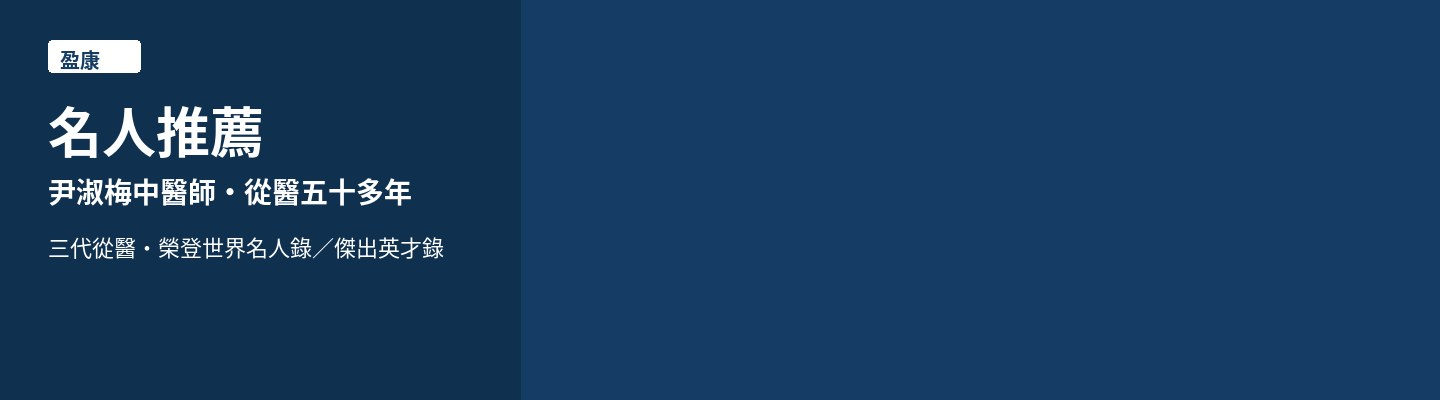
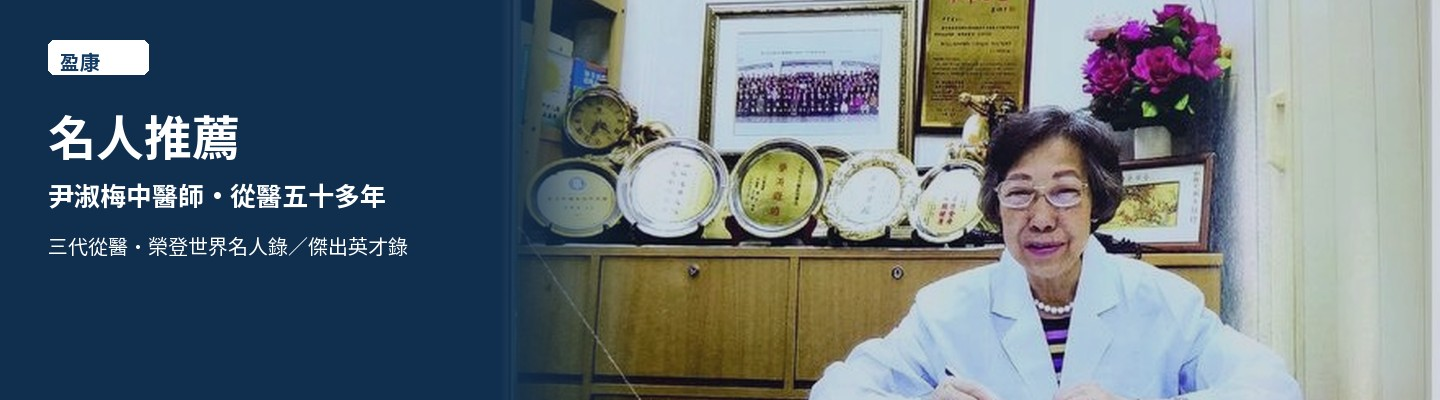
Add real product photos to homepage carousel posters and click-through links
Regenerate all 6 posters (1440x400) with pack shots / Yin Shumei portrait on
the right, wrap each carousel slide in an <a> to the matching product or brand
page, and keep the regen script under scripts/ for future rebuilds.

diff --git a/index.html b/index.html
@@ -54,7 +54,7 @@
 </div>
 
 <div class="carousel" aria-label="宣傳海報輪播">
-  <div class="carousel-track" id="carousel-track"><div class="carousel-slide"><img src="assets/posters/01-hero.jpg" alt="盈康宣傳海報 1"></div><div class="carousel-slide"><img src="assets/posters/02-celebrity.jpg" alt="盈康宣傳海報 2"></div><div class="carousel-slide"><img src="assets/posters/03-yanbiqing.jpg" alt="盈康宣傳海報 3"></div><div class="carousel-slide"><img src="assets/posters/04-patch.jpg" alt="盈康宣傳海報 4"></div><div class="carousel-slide"><img src="assets/posters/05-trust.jpg" alt="盈康宣傳海報 5"></div><div class="carousel-slide"><img src="assets/posters/06-liuwei.jpg" alt="盈康宣傳海報 6"></div></div>
+  <div class="carousel-track" id="carousel-track"><div class="carousel-slide"><a href="products/index.html"><img src="assets/posters/01-hero.jpg" alt="盈康 — 瀏覽所有產品"></a></div><div class="carousel-slide"><a href="yinshumei/index.html"><img src="assets/posters/02-celebrity.jpg" alt="名人推薦 尹淑梅 — 尹淑梅專區"></a></div><div class="carousel-slide"><a href="products/yanbiqing-60caps-y5.html"><img src="assets/posters/03-yanbiqing.jpg" alt="強力炎必清 — 產品詳情"></a></div><div class="carousel-slide"><a href="products/zuogu-gaobu-10pcs-x11-yk400.html"><img src="assets/posters/04-patch.jpg" alt="一條根膏布 — 產品詳情"></a></div><div class="carousel-slide"><a href="about.html"><img src="assets/posters/05-trust.jpg" alt="可信賴本地品牌 — 關於我們"></a></div><div class="carousel-slide"><a href="products/liuwei-dihuang-350caps-yk396.html"><img src="assets/posters/06-liuwei.jpg" alt="六味地黃丸 — 產品詳情"></a></div></div>
   <button type="button" class="carousel-btn prev" id="carousel-prev" aria-label="上一張">‹</button>
   <button type="button" class="carousel-btn next" id="carousel-next" aria-label="下一張">›</button>
   <div class="carousel-dots" id="carousel-dots"></div>

diff --git a/assets/site.css b/assets/site.css
@@ -133,6 +133,7 @@ img { max-width: 100%; height: auto; display: block; }
 }
 .carousel-track { display: flex; transition: transform .45s ease; }
 .carousel-slide { min-width: 100%; position: relative; }
+.carousel-slide > a { display: block; color: inherit; text-decoration: none; }
 .carousel-slide img {
   width: 100%; height: auto; aspect-ratio: 1440/400; object-fit: cover;
 }

diff --git a/scripts/regen_carousel_posters.py b/scripts/regen_carousel_posters.py
@@ -1,0 +1,230 @@
+#!/usr/bin/env python3
+# -*- coding: utf-8 -*-
+"""Regenerate homepage carousel posters with real product/brand photos on the right."""
+from __future__ import annotations
+
+from pathlib import Path
+from PIL import Image, ImageDraw, ImageFont, ImageFilter, ImageEnhance, ImageChops
+
+REPO = Path(__file__).resolve().parents[1]
+OUT = REPO / "assets" / "posters"
+PHONE = "6222 7238"
+W, H = 1440, 400
+LEFT_W = 560
+
+FONT_R = Path("/home/box/.local/share/fonts/LZNotoSansTC-Regular.ttf")
+FONT_B = Path("/home/box/.local/share/fonts/LZNotoSansTC-Bold.ttf")
+FONT_CJK_R = "/usr/share/fonts/opentype/noto/NotoSansCJK-Regular.ttc"
+FONT_CJK_B = "/usr/share/fonts/opentype/noto/NotoSansCJK-Bold.ttc"
+
+
+def font(sz: int, bold: bool = False):
+    preferred = FONT_B if bold else FONT_R
+    if preferred.exists():
+        try:
+            return ImageFont.truetype(str(preferred), sz)
+        except Exception:
+            pass
+    for idx in (4, 3, 1, 0):
+        try:
+            return ImageFont.truetype(FONT_CJK_B if bold else FONT_CJK_R, sz, index=idx)
+        except Exception:
+            continue
+    return ImageFont.load_default()
+
+
+def cover_fit(im: Image.Image, tw: int, th: int) -> Image.Image:
+    im = im.convert("RGBA")
+    sw, sh = im.size
+    scale = max(tw / sw, th / sh)
+    nw, nh = int(sw * scale + 0.5), int(sh * scale + 0.5)
+    im = im.resize((nw, nh), Image.Resampling.LANCZOS)
+    left = (nw - tw) // 2
+    top = (nh - th) // 2
+    return im.crop((left, top, left + tw, top + th))
+
+
+def contain_fit(im: Image.Image, tw: int, th: int, pad_rgba=(0, 0, 0, 0)) -> Image.Image:
+    im = im.convert("RGBA")
+    sw, sh = im.size
+    scale = min(tw / sw, th / sh)
+    nw, nh = max(1, int(sw * scale)), max(1, int(sh * scale))
+    im = im.resize((nw, nh), Image.Resampling.LANCZOS)
+    canvas = Image.new("RGBA", (tw, th), pad_rgba)
+    canvas.paste(im, ((tw - nw) // 2, (th - nh) // 2), im)
+    return canvas
+
+
+def soft_left_fade(panel: Image.Image, fade_px: int = 120) -> Image.Image:
+    panel = panel.convert("RGBA")
+    w, h = panel.size
+    fade_px = min(fade_px, w)
+    alpha = panel.split()[-1]
+    grad = Image.new("L", (w, 1), 255)
+    gpx = grad.load()
+    for x in range(fade_px):
+        gpx[x, 0] = int(255 * (x / fade_px))
+    grad = grad.resize((w, h), Image.Resampling.BILINEAR)
+    new_a = ImageChops.multiply(alpha, grad)
+    panel.putalpha(new_a)
+    return panel
+
+
+def rounded_shadow(product: Image.Image, max_h: int = 340, max_w: int = 520) -> Image.Image:
+    product = product.convert("RGBA")
+    product = ImageEnhance.Contrast(product).enhance(1.05)
+    product = ImageEnhance.Color(product).enhance(1.08)
+    fitted = contain_fit(product, max_w, max_h)
+    shadow = Image.new("RGBA", (max_w + 40, max_h + 40), (0, 0, 0, 0))
+    mask = fitted.split()[-1]
+    sh_layer = Image.new("RGBA", fitted.size, (0, 0, 0, 90))
+    sh_layer.putalpha(mask)
+    sh_layer = sh_layer.filter(ImageFilter.GaussianBlur(12))
+    shadow.paste(sh_layer, (24, 28), sh_layer)
+    shadow.paste(fitted, (12, 8), fitted)
+    return shadow
+
+
+def make_base(bg):
+    img = Image.new("RGB", (W, H), bg)
+    overlay = Image.new("RGBA", (W, H), (0, 0, 0, 0))
+    od = ImageDraw.Draw(overlay)
+    od.rectangle([0, 0, LEFT_W, H], fill=(0, 0, 0, 55))
+    for i in range(80):
+        a = int(40 * (1 - i / 80))
+        od.line([(LEFT_W + i, 0), (LEFT_W + i, H)], fill=(0, 0, 0, a))
+    return Image.alpha_composite(img.convert("RGBA"), overlay)
+
+
+def draw_text_panel(img, bg, fg, t1, t2, t3):
+    d = ImageDraw.Draw(img)
+    d.rounded_rectangle([48, 40, 148, 74], radius=6, fill=(255, 255, 255))
+    d.text((60, 46), "盈康", fill=bg, font=font(20, True))
+    d.text((48, 100), t1, fill=fg, font=font(48, True))
+    d.text((48, 175), t2, fill=fg, font=font(26, True))
+    d.text((48, 230), t3, fill=fg, font=font(20))
+    return img
+
+
+def paste_right_photo(base, photo):
+    right_w = W - LEFT_W + 60
+    panel = cover_fit(photo, right_w, H)
+    panel = soft_left_fade(panel, fade_px=140)
+    out = base.convert("RGBA")
+    out.alpha_composite(panel, (LEFT_W - 60, 0))
+    return out
+
+
+def paste_product_float(base, product, bg_accent=None, extra=None):
+    out = base.convert("RGBA")
+    deco = Image.new("RGBA", (W, H), (0, 0, 0, 0))
+    accent = bg_accent or (255, 255, 255)
+    orb = Image.new("RGBA", (520, 520), (0, 0, 0, 0))
+    ImageDraw.Draw(orb).ellipse([0, 0, 520, 520], fill=(*accent, 45))
+    deco.alpha_composite(orb, (W - 560, -40))
+    orb2 = Image.new("RGBA", (280, 280), (0, 0, 0, 0))
+    ImageDraw.Draw(orb2).ellipse([0, 0, 280, 280], fill=(255, 255, 255, 35))
+    deco.alpha_composite(orb2, (W - 320, 180))
+    out = Image.alpha_composite(out, deco)
+
+    packs = [p for p in ([product] + (extra or [])) if p is not None]
+    if len(packs) == 1:
+        positions = [(LEFT_W + 40, 10, 620, 380)]
+    elif len(packs) == 2:
+        positions = [(LEFT_W + 20, 30, 420, 340), (W - 420, 50, 380, 320)]
+    else:
+        positions = [
+            (LEFT_W + 10, 40, 340, 300),
+            (LEFT_W + 280, 20, 360, 320),
+            (W - 280, 50, 250, 280),
+        ]
+    for im, (x, y, mw, mh) in zip(packs, positions):
+        shadowed = rounded_shadow(im, max_h=mh, max_w=mw)
+        sx = x + (mw + 40 - shadowed.size[0]) // 2
+        sy = y + (mh + 40 - shadowed.size[1]) // 2
+        out.alpha_composite(shadowed, (max(0, sx), max(0, sy)))
+    return out
+
+
+def open_img(rel: str) -> Image.Image:
+    p = REPO / rel
+    if not p.exists():
+        raise FileNotFoundError(p)
+    return Image.open(p)
+
+
+def save(img, name):
+    OUT.mkdir(parents=True, exist_ok=True)
+    path = OUT / name
+    img.convert("RGB").save(path, "JPEG", quality=90, optimize=True)
+    print(f"wrote {path} ({path.stat().st_size} bytes)")
+    return path
+
+
+def build_all():
+    posters = [
+        ("01-hero.jpg", (229, 119, 0), (255, 255, 255), "盈康", "香港輕養生・膏布・口服・噴霧", "先瀏覽產品・有問題再查詢 " + PHONE, "hero"),
+        ("02-celebrity.jpg", (20, 60, 100), (255, 255, 255), "名人推薦", "尹淑梅中醫師・從醫五十多年", "三代從醫・榮登世界名人錄／傑出英才錄", "celebrity"),
+        ("03-yanbiqing.jpg", (180, 40, 40), (255, 255, 255), "強力炎必清", "清熱不傷胃・香港製造", "已售出 400+・HKTVmall 熱賣", "yanbiqing"),
+        ("04-patch.jpg", (90, 50, 20), (255, 245, 230), "一條根膏布系列", "舒緩腰腿酸痛・外用方便", "金門／台灣一條根・多規格可選", "patch"),
+        ("05-trust.jpg", (30, 90, 60), (255, 255, 255), "可信賴的本地品牌", "HKTVmall 專營店・Price 商戶", "WhatsApp／電話 " + PHONE, "trust"),
+        ("06-liuwei.jpg", (100, 40, 80), (255, 255, 255), "六味地黃丸", "滋陰補腎・傳統複方", "350粒／雙瓶裝・香港製造", "liuwei"),
+    ]
+
+    yan = open_img("assets/products/yanbiqing-60caps-y5/primary.png")
+    patch = open_img("assets/products/zuogu-gaobu-10pcs-x11-yk400/primary.png")
+    liuwei = open_img("assets/products/liuwei-dihuang-350caps-yk396/primary.png")
+    mieshi = open_img("assets/products/mieshitong-gaobu-bevidan-10pcs-yk402/primary.png")
+    portrait = open_img("assets/yinshumei/portrait.jpg")
+    hero = open_img("assets/hero.jpg")
+    logo = open_img("assets/logo.png")
+    liuwei_extra = None
+    for cand in (
+        "assets/products/liuwei-dihuang-350caps-yk396/gallery-2.jpg",
+        "assets/products/liuwei-dihuang-350caps-yk396/gallery-1.png",
+    ):
+        cp = REPO / cand
+        if cp.exists():
+            liuwei_extra = Image.open(cp)
+            break
+
+    for fname, bg, fg, t1, t2, t3, key in posters:
+        base = make_base(bg)
+        if key == "hero":
+            right = paste_right_photo(base, hero)
+            dim = Image.new("RGBA", (W, H), (0, 0, 0, 0))
+            ImageDraw.Draw(dim).rectangle([LEFT_W - 40, 0, W, H], fill=(*bg, 70))
+            right = Image.alpha_composite(right, dim)
+            right = paste_product_float(right, yan, bg_accent=(255, 200, 120), extra=[patch, liuwei])
+            lg = contain_fit(logo, 160, 50)
+            right.alpha_composite(lg, (W - 190, H - 70))
+            img = draw_text_panel(right, bg, fg, t1, t2, t3)
+        elif key == "celebrity":
+            right = paste_right_photo(base, portrait)
+            tint = Image.new("RGBA", (W, H), (0, 0, 0, 0))
+            ImageDraw.Draw(tint).rectangle([LEFT_W - 40, 0, W, H], fill=(20, 40, 80, 50))
+            right = Image.alpha_composite(right, tint)
+            img = draw_text_panel(right, bg, fg, t1, t2, t3)
+        elif key == "yanbiqing":
+            right = paste_product_float(base, yan, bg_accent=(255, 180, 160))
+            img = draw_text_panel(right, bg, fg, t1, t2, t3)
+        elif key == "patch":
+            right = paste_product_float(base, patch, bg_accent=(220, 180, 120), extra=[mieshi])
+            img = draw_text_panel(right, bg, fg, t1, t2, t3)
+        elif key == "trust":
+            right = paste_product_float(base, patch, bg_accent=(120, 200, 160), extra=[yan, mieshi])
+            lg = contain_fit(logo, 200, 60)
+            right.alpha_composite(lg, (W - 240, 30))
+            img = draw_text_panel(right, bg, fg, t1, t2, t3)
+        elif key == "liuwei":
+            extras = [liuwei_extra] if liuwei_extra is not None else None
+            right = paste_product_float(base, liuwei, bg_accent=(200, 140, 180), extra=extras)
+            img = draw_text_panel(right, bg, fg, t1, t2, t3)
+        else:
+            img = draw_text_panel(base, bg, fg, t1, t2, t3)
+        save(img, fname)
+    print("done")
+
+
+if __name__ == "__main__":
+    build_all()
